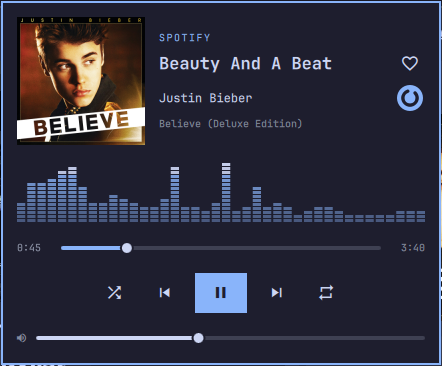
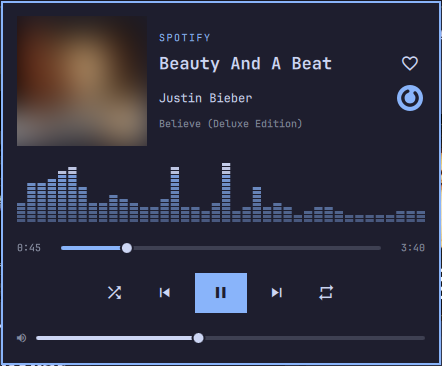
Add removal steps and blur album art in preview

Changed region(s): [[0.0294, 0.0301, 0.3529, 0.4208]]

diff --git a/README.md b/README.md
@@ -37,6 +37,15 @@ omarchy plugin add https://github.com/CodeSieb/omarchy-player.git --enable
 
 Or clone the repo and run `./install.sh`.
 
+## Remove
+
+```bash
+omarchy plugin remove codesieb.omarchy-player
+rm -rf ~/.config/omarchy-player ~/.local/state/omarchy-player
+```
+
+If you enabled the DJ switch, also delete its line from `~/.config/spotify-flags.conf`.
+
 ## Usage
 
 | In the bar | Action |
